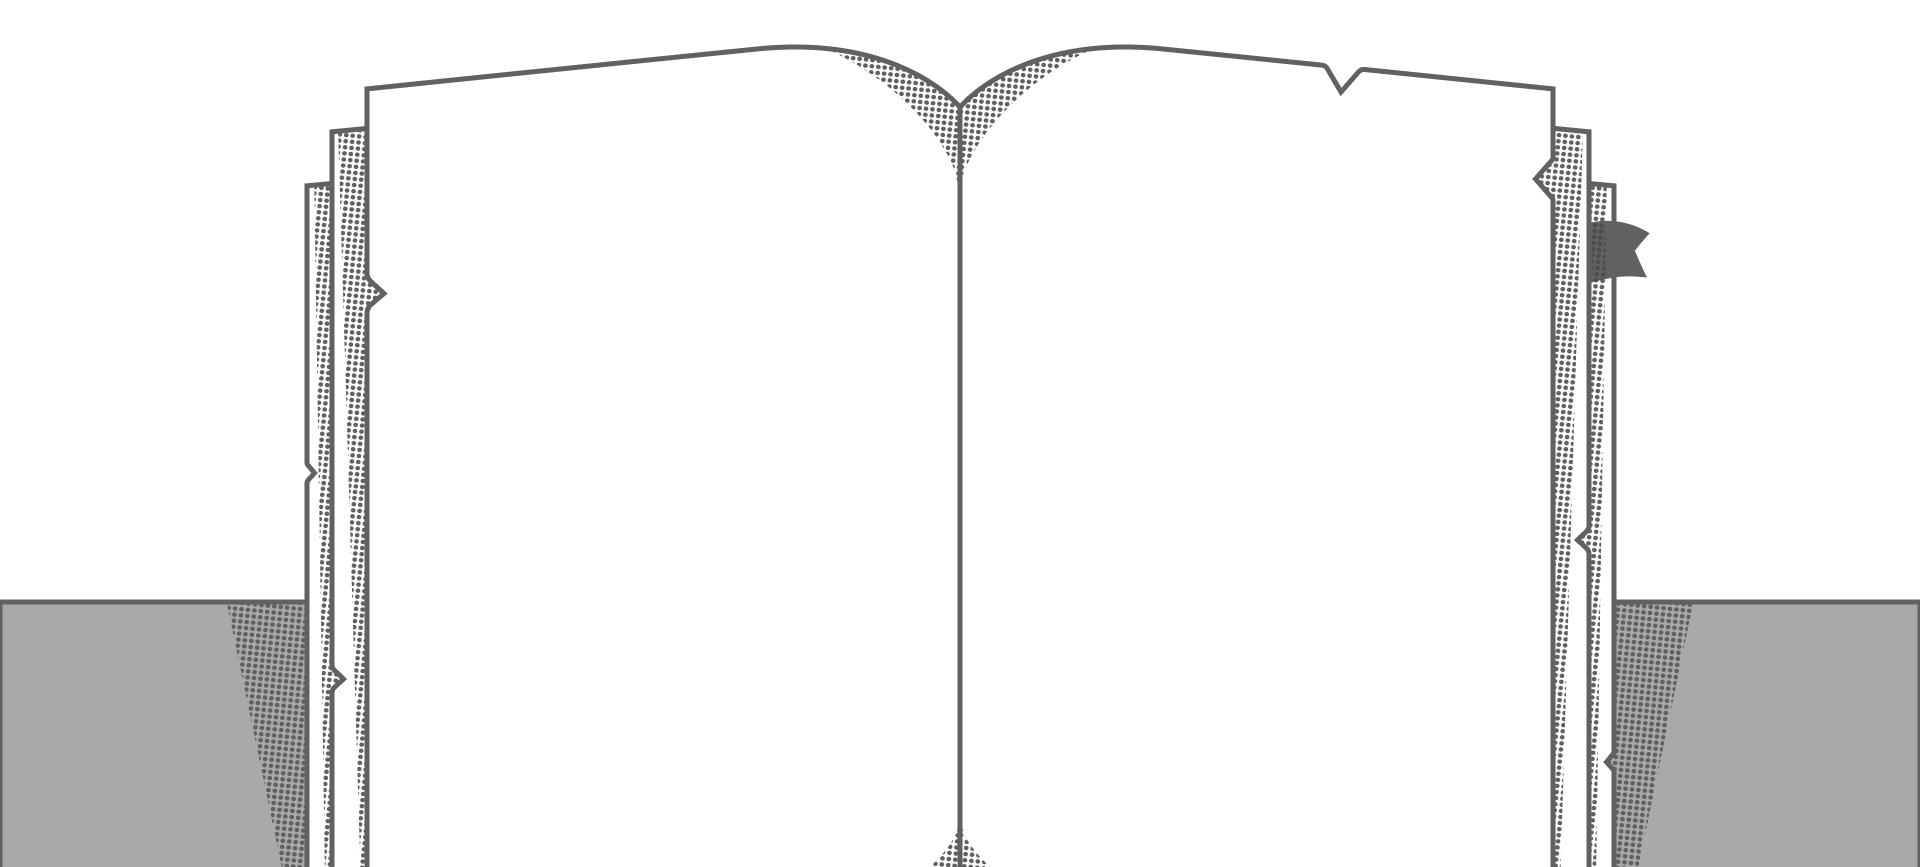
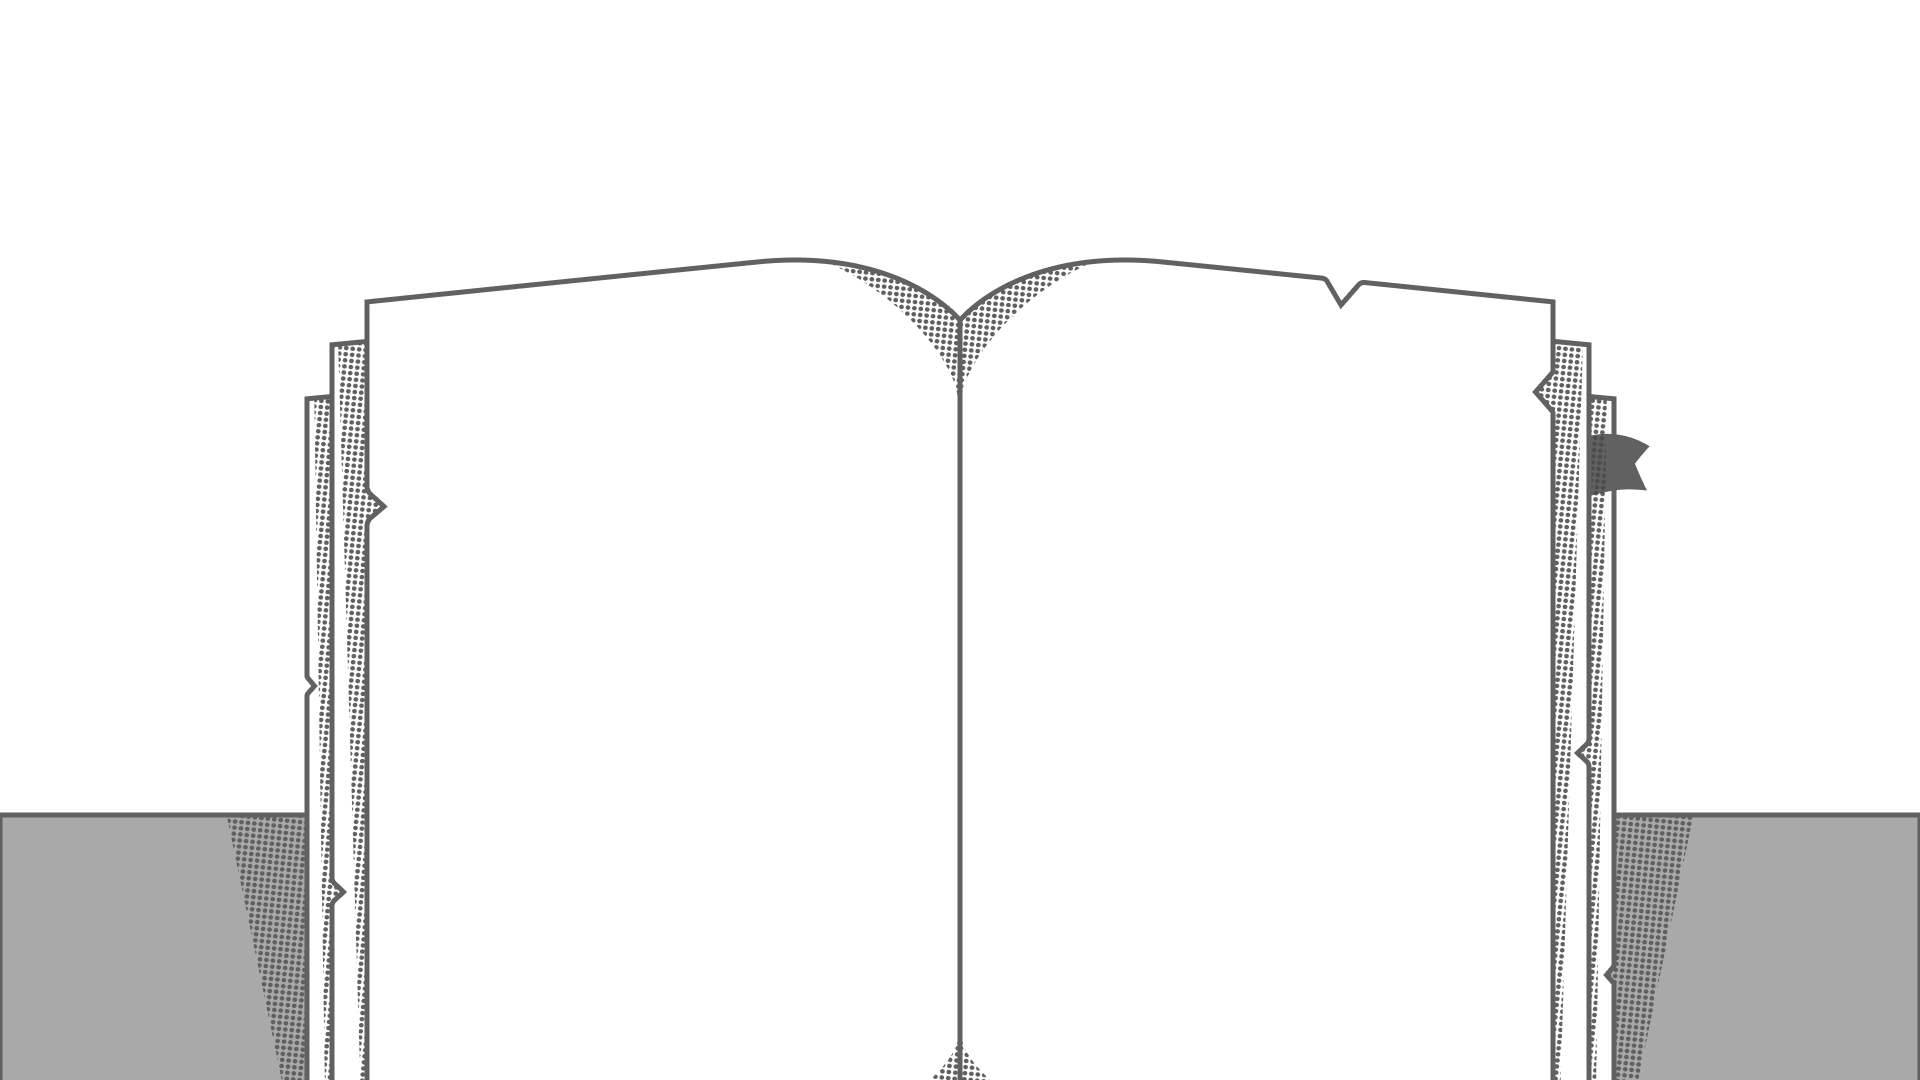
1119 8:18

diff --git a/danpoongthon/src/component_css/Main.css b/danpoongthon/src/component_css/Main.css
@@ -1,23 +1,28 @@
+.hole{
+    background : url('../../public/BG_main.png') no-repeat center;
+    background-color: #F5F5F5;
+    height:100vh;
+    background-size:cover;
+    overflow-x:hidden;
+    overflow-y:hidden;
+}
 .componentDiv{
     font-family: 'Noto Sans KR', sans-serif;
-    /* background : url('../../public/BG_main.png') no-repeat center; */
-    background-color: #F5F5F5;
-    min-height:95vh;
-    overflow-x:hidden;
 }
+
 .holemenuDiv{    
     color:#333333;
     display: flex;
     /* background-color: rgba(17, 17, 91, 0.249); */
     margin: 0px auto;
-    padding-top:103px;
+    padding-top:80px;
     width: 1312px;
     text-align: center;
     justify-content: space-between; 
 }
 .menuDiv{
     display: flex;
-    background-color: aquamarine;
+    /* background-color: aquamarine; */
     justify-content: space-between; 
 }
 
@@ -63,10 +68,10 @@
 }
 
 .bookDiv{
-    height:100vh;
+    /* height:100vh; */
     width:1900px;
-    background : url('../../public/BG_main.png') no-repeat center;
-    background-size:cover;
+    /* background : url('../../public/BG_main.png') no-repeat center; */
+    /* background-size:cover; */
 }
 
 .contentDiv{
@@ -82,7 +87,7 @@
     border-bottom:2px solid #616161;
     width:333px;
     padding-top:120px;
-    margin-left:180px;   
+    margin-left:200px;   
 }
 
 .storys{
@@ -92,7 +97,7 @@
     height:700px;
     padding:10px;
     padding-top:30px;
-    margin-left:80px; 
+    margin-left:110px; 
     
 }
 

diff --git a/danpoongthon/src/component_css/Write.css b/danpoongthon/src/component_css/Write.css
@@ -1,7 +1,16 @@
+.hole2{
+    background : url('../../public/BG_write.png') no-repeat center;
+    background-color: #F5F5F5;
+    height:100vh;
+    background-size:cover;
+    overflow-x:hidden;
+    overflow-y:hidden;
+}
+
 .writeDiv{
     height:100vh;
     width:1900px;
-    background : url('../../public/BG_write.png') no-repeat center;
+    /* background : url('../../public/BG_write.png') no-repeat center; */
     background-size:cover;
 }
 
@@ -17,13 +26,13 @@
     font-size:23px;
     font-weight: bold;
     margin-right:10px;
-    padding-top:300px;
+    padding-top:250px;
 
 }
 
 .inputWriter{
     font-family: 'Noto Sans KR', sans-serif;
-    margin-top:300px;
+    margin-top:250px;
     margin-left:10px;
     height: 39px;
     border:1px solid black;
@@ -35,7 +44,7 @@
     width: 1312px;
     justify-content: center;
     margin: 0px auto;
-    margin-top:150px;
+    margin-top:130px;
 }
 
 .inputText{
@@ -58,5 +67,5 @@
 }
 
 .postBtn{
-    margin-top:130px;
+    margin-top:100px;
 }

diff --git a/danpoongthon/src/component_css/Create.css b/danpoongthon/src/component_css/Create.css
@@ -1,9 +1,18 @@
+.hole3{
+    background : url('../../public/BG_create.png') no-repeat center;
+    background-color: #F5F5F5;
+    height:100vh;
+    background-size:cover;
+    overflow-x:hidden;
+    overflow-y:hidden;
+}
+
 .createbookDiv{
     height:100vh;
     width:1900px;
-    background : url('../../public/BG_create.png') no-repeat center;
+    /* background : url('../../public/BG_create.png') no-repeat center; */
     background-size:cover;
-    /* margin-top:120px; */
+    margin-top:120px;
 }
 
 .createDiv{

diff --git a/danpoongthon/src/component/Write.js b/danpoongthon/src/component/Write.js
@@ -31,7 +31,7 @@ function Write(){
     }
 
     return(
-        <>
+        <div className='hole2'>
             <Header></Header>
             <div className='componentDiv'>
                 <div className='holemenuDiv'>
@@ -100,7 +100,7 @@ function Write(){
                 </div>
 
             </div>
-        </>
+        </div>
     )
 }
 

diff --git a/danpoongthon/src/component/Create.js b/danpoongthon/src/component/Create.js
@@ -31,7 +31,7 @@ function Create(){
 
 
     return(
-        <>
+        <div className='hole3'>
             <Header></Header>
 
             <div className='componentDiv'>
@@ -89,7 +89,7 @@ function Create(){
                     </div>                    
                 </div>
             </div>
-        </>
+        </div>
     )
 }
 

diff --git a/danpoongthon/src/component/Main.js b/danpoongthon/src/component/Main.js
@@ -101,7 +101,7 @@ function Main(){
     }
     
     return(
-        <>
+        <div className='hole'>
             <Header></Header>
 
             <div className='componentDiv'>
@@ -172,7 +172,7 @@ function Main(){
                     </div>
                 </div>
             </div>
-        </>
+        </div>
     )
 }
 
